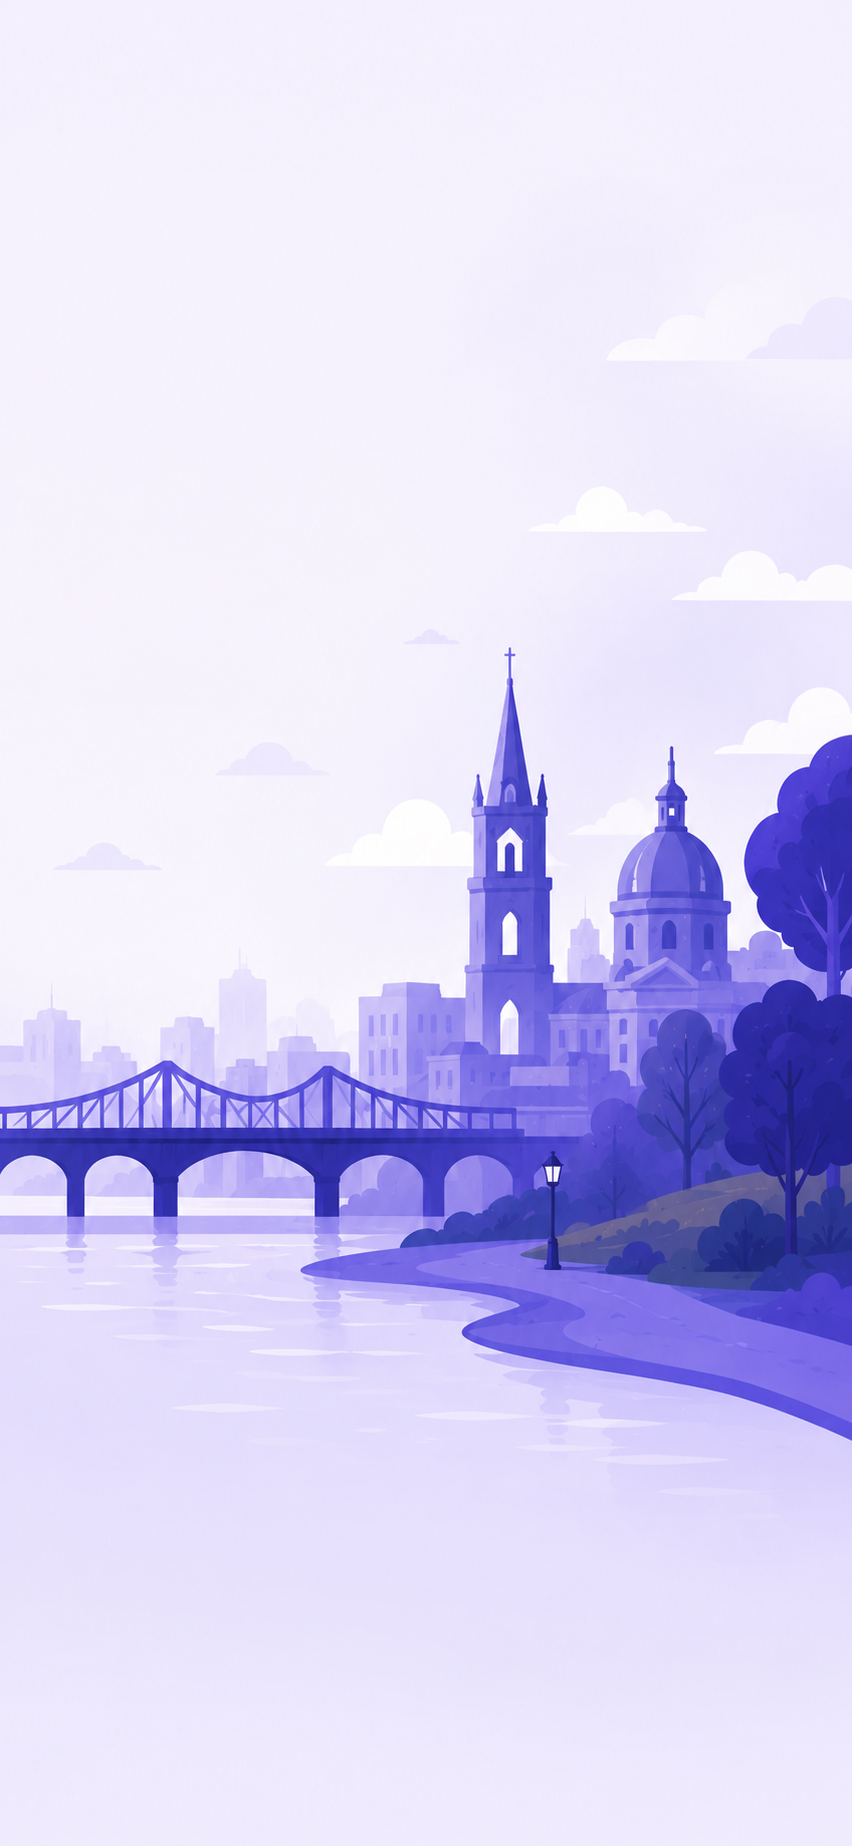
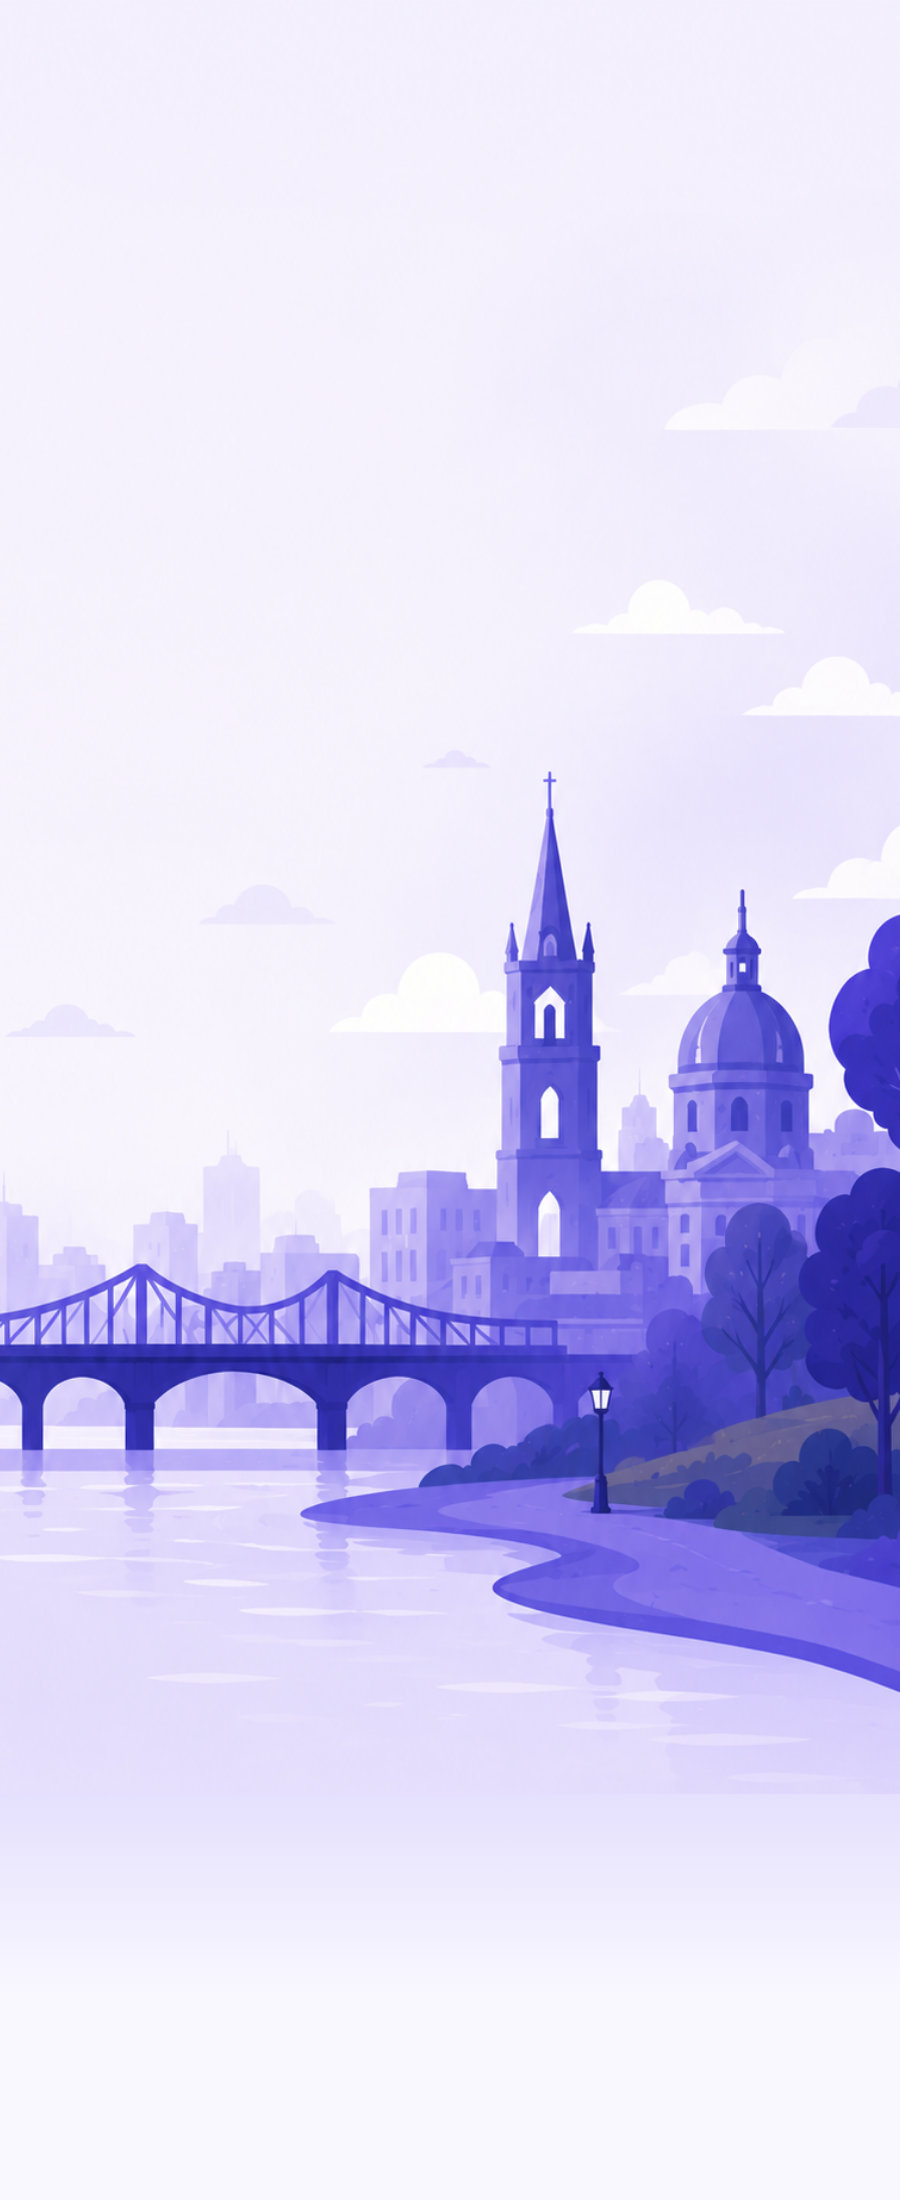
fixed background pic,cleaned up css

Changed region(s): [[0.5188, 0.3397, 1.0, 0.8028], [0.0, 0.5249, 0.4883, 0.7102], [0.5493, 0.7102, 0.6103, 0.7411]]

diff --git a/app/assets/stylesheets/pages/_home.scss b/app/assets/stylesheets/pages/_home.scss
@@ -3,7 +3,6 @@
   background-position: center;
   background-repeat: no-repeat;
   background-size: cover;
-  height: 100vh;
 }
 
 .container-main {
@@ -11,18 +10,24 @@
 }
 
 .hero-text {
-  width: 70vw;
+  width: 75vw;
 
   h2 {
     font-size: 2rem;
     font-weight: 500;
-    line-height: 1.4em;
-    margin-bottom: 30px;
+    line-height: 1.3em;
+    margin-bottom: 20px;
+    text-shadow: 2px 2px 4px gray;
+  }
+
+  p {
+    background: rgba(255, 255, 255, 0.3);
+    padding: 10px;
   }
 }
 
 .cards-container {
-  padding-top: 150px;
+  padding-top: 200px;
   display: flex;
   flex-direction: column;
   gap: 20px;
@@ -30,7 +35,7 @@
 
 .home-card {
   background-color: $OJ-background-color;
-  opacity: 0.9;
+  opacity: 0.92;
   padding: 20px;
   display: flex;
   justify-content: center;
@@ -40,37 +45,6 @@
   i {
     font-size: 4rem;
     padding-right: 20px;
+    color: $OJ-primary;
   }
-}
-
-.hero-title {
-  color: contrast-color(#ffffff, #000, #fff);
-}
-
-.hero-title {
-  color: contrast-color(var(--hero-bg), #000, #fff);
-}
-
-.hero-title {
-  text-shadow: 0 2px 8px rgba(0,0,0,0.4);
-}
-
-.hero-title-card {
-  background: white;
-  padding: 1.2rem 1.6rem;
-  border-radius: 12px;
-  box-shadow: 0 4px 20px rgba(0,0,0,0.12);
-  display: inline-block;
-  margin-bottom: 1rem;
-}
-
-.hero-title {
-  color: #111; /* même noir que tes cartes */
-  font-size: 2rem;
-  font-weight: 700;
-  margin: 0;
-}
-
-.icon-purple {
-  color: rgb(108, 99, 255);
 }